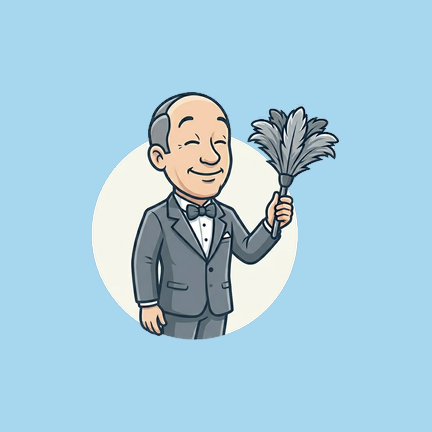
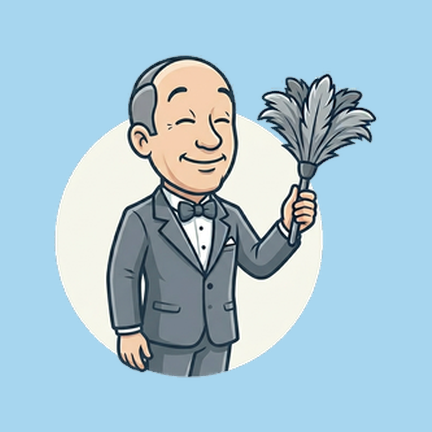
fix: 더슬러 아이콘 확대 및 집사 컨셉 라이팅 반영

Changed region(s): [[0.1204, 0.1204, 0.8727, 0.8727]]

diff --git a/index.html b/index.html
@@ -360,7 +360,7 @@
             <div class="app-tile" style="--accent: #89B4E8;" onclick="toggleDetail('dustler')">
                 <img src="dustler-icon.png" alt="" class="tile-icon">
                 <div class="tile-name">더슬러</div>
-                <div class="tile-tagline">가족과 함께하는 스마트 청소</div>
+                <div class="tile-tagline">우리 집 전담 청소 집사</div>
                 <span class="tile-badge badge-dev">개발중</span>
             </div>
         </div>
@@ -492,10 +492,10 @@
                 <img src="dustler-icon.png" alt="" class="detail-icon">
                 <div class="detail-info">
                     <h2>더슬러</h2>
-                    <div class="tagline">우리 가족 청소, 함께 관리하고 함께 완성해요</div>
+                    <div class="tagline">집사가 관리하는 우리 집 청소 스케줄</div>
                 </div>
             </div>
-            <div class="description">가족 구성원과 청소 구역을 나누고, 일정을 관리하는 스마트 청소 앱. 누가 어디를 청소했는지 한눈에 확인하고, 함께 깨끗한 집을 만들어 가세요.</div>
+            <div class="description">더슬러 집사가 가족의 청소를 책임집니다. 구역별 담당을 나누고, 청소 일정을 관리하고, 누가 어디를 청소했는지 한눈에 확인하세요. 깨끗한 집, 집사에게 맡기세요.</div>
             <div class="app-links">
                 <a href="#" class="link-secondary" style="cursor: default; opacity: 0.5;">개발중</a>
             </div>
